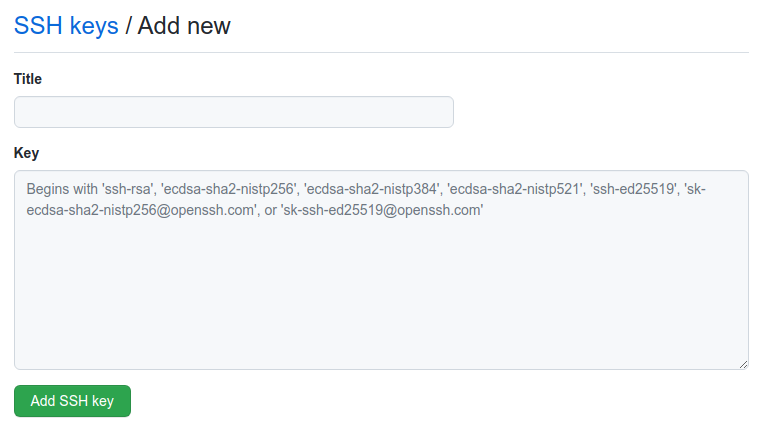
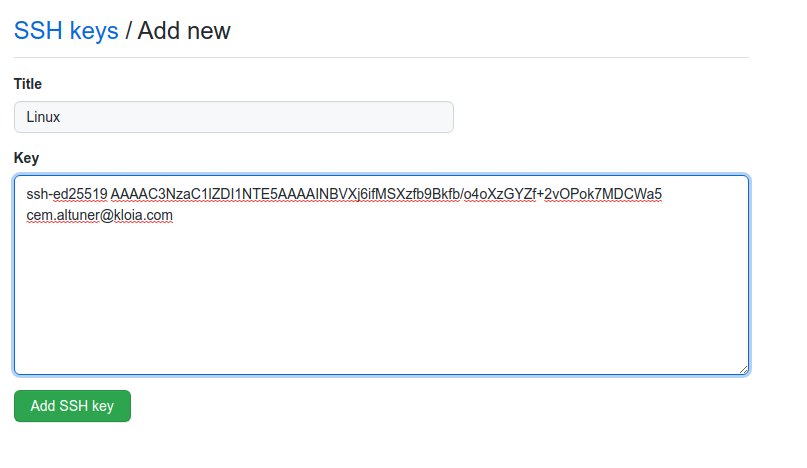
Add files via upload

diff --git a/readme.md b/readme.md
@@ -12,17 +12,21 @@ If you don't have any SSH keys or want to check if they exist
 If you want to create new SSH keys 
 - [Generating a new SSH key](./generate-ssh.md)
 
-If you want to add new SSH key to you Github account 
-- [Add a new SSH key to Github](./add-ssh-key-to-GIthub.md)
+or you could use **generate-and-add-ed25519.sh** and **generate-and-add-rsi.sh** scripts which is creating ssh key and adds to the ssh agent.  
 
 
-# <b>Generate and Add SSH key Script</b>
 
-If you want to generate a new SSH key with rsi algorithm, you could use `generate-and-add-rsi.sh` .
+# <b>Generate key and add to Github</b>
 
-If you want to generate a new SSH key with rsi algorithm, you could use `generate-and-add-ed25519.sh` .
+Both of the script files generates ssh key and adds your ssh key to ssh-agent. After that it's not necessary to enter your passphrase every time you use your SSH key
 
-Both of the script files has same instructions.
+Both of the script files generates ssh key without passphrase and saves your ssh key to default ssh file  path  `~/.ssh/` . If you want to use passphrase or save ssh file to another path, follow the [Generating a new SSH key](./generate-ssh.md) instructions.
+
+- If you want to generate a new SSH key with rsi algorithm, you could use `generate-and-add-rsi.sh` .
+
+- If you want to generate a new SSH key with rsi algorithm, you could use `generate-and-add-ed25519.sh` .
+
+- Both of the script files has same instructions.
 
 
 ## **Step 1**
@@ -31,11 +35,14 @@ Both of the script files has same instructions.
 
 - Enter following command in your repository which you downloaded **script** with your **e-mail** address..
 
-     <img src="./Assets/ssh_generate/input.png" width="470">
+        $ sh generate-and-add-ed25519.sh cem.altuner@kloia.com
 
 - Script will save the file with supported format by gihub to  default ssh file  path  `~/.ssh/` . 
+- If you have same file name with **"id_ed25519"** or **"id_rsi"** in your default ssh file path, terminal asks you for **Overwrite (y/n)**. Be careful and don't overwrite your own ssh file which you don't want to delete.
 
-  <img src="./Assets/ssh_generate/agent-add.png" width="556">
+
+        >Agent pid 84773
+        >Identitiy added: /home/cem/.ssh/id_ed25519 (cem.altuner@kloia.com)
 
 ## **Step 2**
 
@@ -44,5 +51,35 @@ Both of the script files has same instructions.
     <img src="./Assets/ssh_generate/result.png" width="756">
 
 
-- Follow instructions to add SSH key which generated by the script. 
-  - [Add a new SSH key to Github](./add-ssh-key-to-GIthub.md)
+
+
+## **Step 3**
+In the upper-right corner of any page, click your profile photo, then click **Settings.**
+
+<img src="./Assets/Github/settings.png" width="208">
+
+&nbsp;
+## **Step 4**
+In the user settings sidebar, click SSH and GPG keys.
+
+<img src="./Assets/Github/AccountSettings.png" width="200">
+
+&nbsp;
+## **Step 5**
+Click **New SSH key**.
+
+<img src="./Assets/Github/new_ssh_key.png" width="158">
+
+&nbsp;
+## **Step 6**
+Add a label to **"Title"** field. Paste your key into the **"Key"** field and press Add **SSH Key** Button.
+
+<img src="./Assets/Github/add_ssh_key.png" width="800">
+
+
+You could check you connection wit `ssh -T git@github.com`
+
+        $ ssh -T git@github.com
+        >Please type 'yes', 'no' or the fingerprint: yes
+        >Warning: Permanently added 'github.com,140.82.121.4' (RSA) to the list of known hosts.
+        >Hi cem-altuner-kloia! You've successfully authenticated, but GitHub does not provide shell access.
